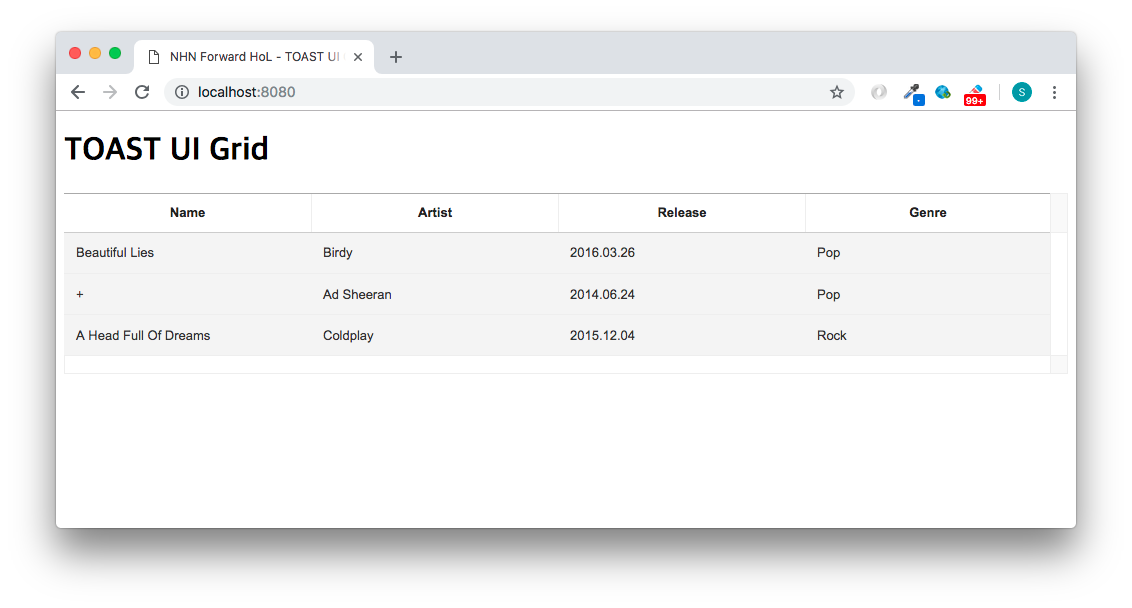
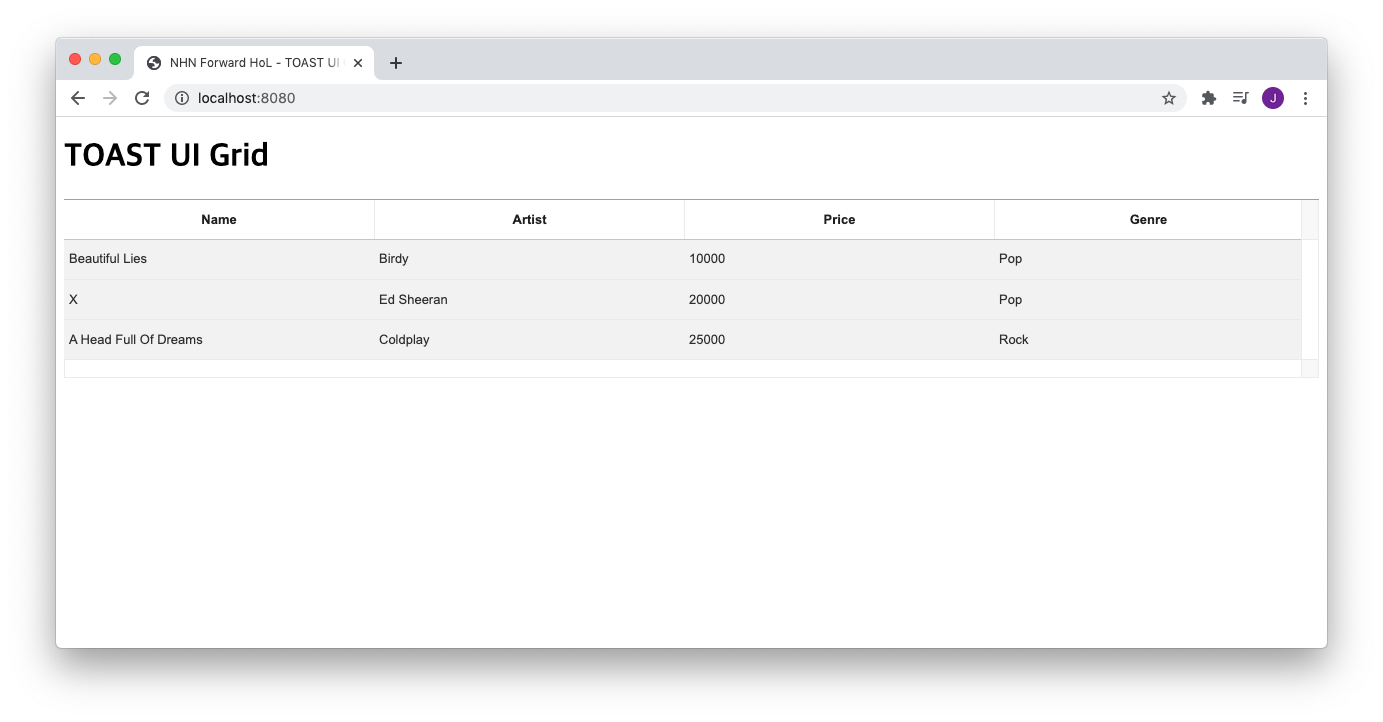
chore: apply review

diff --git a/searchindex.js b/searchindex.js
@@ -1,1 +1,1 @@
-Search.setIndex({docnames:["01","02","03","04","05","06","07","08","index","wrap-up"],envversion:{"sphinx.domains.c":1,"sphinx.domains.changeset":1,"sphinx.domains.cpp":1,"sphinx.domains.javascript":1,"sphinx.domains.math":2,"sphinx.domains.python":1,"sphinx.domains.rst":1,"sphinx.domains.std":1,sphinx:54},filenames:["01.rst","02.rst","03.rst","04.rst","05.rst","06.rst","07.rst","08.rst","index.rst","wrap-up.rst"],objects:{},objnames:{},objtypes:{},terms:{"15\ubd84":8,"3\uac1c\uc758":6,"\uac00\uacc4\ubd80":[0,7],"\uac00\uacc4\ubd80\ub97c":3,"\uac00\uacc4\ubd80\uc5d0":3,"\uac00\uacc4\ubd80\uc5d0\uc11c\ub294":4,"\uac00\uacc4\ubd80\uc758":3,"\uac00\uc7a5":4,"\uac00\uc838\uc624\ub294":[4,6],"\uac00\uc838\uc640":6,"\uac00\uc838\uc640\uc11c":7,"\uac00\uc9c0":[4,7],"\uac00\uc9c4":4,"\uac01":[4,5],"\uac04\ub2e8\ud55c":3,"\uac04\ub2e8\ud569\ub2c8\ub2e4":6,"\uac04\ub2e8\ud788":1,"\uac12":4,"\uac12\uc5d0":5,"\uac12\uc73c\ub85c":4,"\uac12\uc740":5,"\uac12\uc744":[3,4],"\uac12\uc758":4,"\uac19\uc2b5\ub2c8\ub2e4":4,"\uac19\uc740":4,"\uac19\uc774":[0,1,3,4,6,7],"\uac1c\ubc1c":[2,6],"\uac1c\ubc1c\uc790":6,"\uac1c\ubc1c\ud558\uae30":9,"\uac1c\ubc1c\ud55c":0,"\uac1c\uc694":8,"\uac1c\uc758":4,"\uac1d\uccb4":4,"\uac1d\uccb4\uc5d0":4,"\uac1d\uccb4\uc785\ub2c8\ub2e4":5,"\uac83\uacfc":[6,7],"\uac83\uc744":7,"\uacb0\uacfc\ub294":1,"\uacb0\uacfc\ub97c":[5,7],"\uacb0\uc815\ud558\ub294":5,"\uacb0\uc81c":[3,4],"\uacbd\uc6b0":[4,5,7],"\uacbd\ud5d8\ud574\ubcf4\uace0":0,"\uacfc":4,"\uacfc\uc815\uc744":6,"\uad00\ub9ac\ube44":4,"\uad50\ud1b5\ube44":4,"\uad6c\ud604\ud560":6,"\uad6c\ud604\ud574\ubd05\ub2c8\ub2e4":[6,7],"\uadf8\ub9ac\uace0":4,"\uadf8\ub9ac\ub4dc":[3,5,6,8],"\uadf8\ub9ac\ub4dc\uac00":2,"\uadf8\ub9ac\ub4dc\ub97c":[3,6],"\uadf8\ub9ac\ub4dc\uc5d0\uc11c":[4,6,7],"\uadf8\ub9ac\ub4dc\uc5d0\uc11c\ub294":[4,7],"\uadf8\ub9ac\ub4dc\uc758":[4,6],"\uae08\uc561":[3,4,5],"\uae30\ub2a5\ub4e4\uc744":3,"\uae30\ub2a5\ub9cc":4,"\uae30\ub2a5\uc744":4,"\uae30\ubcf8":[2,5,8],"\uae30\ubcf8\uac12\uc740":5,"\uae30\ubcf8\uc801\uc778":4,"\ub098\ud0c0\ub098\uc9c0":5,"\ub0a0\uc9dc":[3,4],"\ub0a0\uc9dc\ub97c":4,"\ub0a0\uc9dc\uc758":4,"\ub0b4\ubd80":4,"\ub0b4\ubd80\uc5d0":2,"\ub0b4\ubd80\uc5d0\uc11c\ub294":6,"\ub0b4\uc5d0\uc11c":[4,6],"\ub0b4\uc5ed":[3,4],"\ub0b4\uc6a9\uc744":5,"\ub0b4\uc7a5":4,"\ub118\uaca8\uc8fc\uc5b4\uc57c":2,"\ub124\ud2b8\uc6cc\ud06c":6,"\ub192\uc774\ub97c":5,"\ub294":6,"\ub2e4\ub974\uac8c":4,"\ub2e4\ub978":4,"\ub2e4\uc2dc":3,"\ub2e4\uc591\ud55c":[0,8],"\ub2e4\uc74c":[2,6,7],"\ub2e4\uc74c\uacfc":[4,6,7],"\ub2e8\uc704\ub97c":5,"\ub2f4\uc544":4,"\ub300\uc0c1":5,"\ub300\uc2dc\ubcf4\ub4dc":9,"\ub300\uc2e0":6,"\ub300\ud55c":[5,6],"\ub300\ud574":5,"\ub354":[2,5,6],"\ub370\uc774\ud130":[2,4,5,6],"\ub370\uc774\ud130\uac00":[4,7],"\ub370\uc774\ud130\uac12\uc774":7,"\ub370\uc774\ud130\ub294":4,"\ub370\uc774\ud130\ub97c":[0,3,4,6,7],"\ub370\uc774\ud130\ub9cc":6,"\ub370\uc774\ud130\uc5d0":6,"\ub370\uc774\ud130\uc758":5,"\ub3c4\uad6c":6,"\ub3c4\uc640\uc8fc\ub294":6,"\ub3cc\uc544\uc640":7,"\ub3d9\uae30\ud654":7,"\ub3d9\uc77c\ud558\uac8c":7,"\ub3d9\uc791":[6,7],"\ub3d9\uc791\uc740":7,"\ub3d9\uc791\uc744":[6,7],"\ub3d9\uc791\uc758":7,"\ub3d9\uc791\ud558\uc600\ub2e4\uba74":6,"\ub420":4,"\ub429\ub2c8\ub2e4":[4,6,7],"\ub450\uc5c8\uc2b5\ub2c8\ub2e4":1,"\ub4e4\uc5b4":4,"\ub4e4\uc5b4\uac00\ub294":4,"\ub4e4\uc5b4\uac08":3,"\ub4f1":5,"\ub54c":[3,4,5,7],"\ub54c\uc640":7,"\ub610\ud55c":4,"\ub744\uc6cc":4,"\ub77c\ub294":4,"\ub77c\uc774\ube0c\ub7ec\ub9ac\uc785\ub2c8\ub2e4":0,"\ub7a9\uc2a4\uc5d0\uc11c":0,"\ub808\ubca8":8,"\ub808\uc774\ube14\ub85c":4,"\ub808\uc774\uc544\uc6c3":8,"\ub808\uc774\uc544\uc6c3\uc5d0":5,"\ub808\uc774\uc544\uc6c3\uc744":3,"\ub808\uc774\uc5b4\ub97c":4,"\ub80c\ub354\ub9c1\ud560":5,"\ub85c":[3,4],"\ub85c\ub4dc\ud558\uba74":6,"\ub85c\uceec":6,"\ub85c\uceec\uc5d0\uc11c":6,"\ub97c":[1,6,7],"\ub9ac\uc2a4\ud2b8\uc758":4,"\ub9ac\ud504\ub808\uc2dc\ub429\ub2c8\ub2e4":2,"\ub9ac\ud504\ub808\uc2dc\ud558\uba74":7,"\ub9c1\ud06c":2,"\ub9c8\uc2a4\ud130\ud558\uc600\uc2b5\ub2c8\ub2e4":9,"\ub9cc\ub4e4\uae30":[0,9],"\ub9cc\ub4e4\uc5b4\ubcf4\uaca0\uc2b5\ub2c8\ub2e4":3,"\ub9cc\ub4e4\uc5b4\ubd05\ub2c8\ub2e4":3,"\ub9ce\uc740":2,"\ub9e4\ud551\uc744":4,"\uba3c\uc800":[3,6,7],"\uba54\uc2dc\uc9c0\uac00":6,"\uba85\ub839\uc5b4\ub97c":6,"\ubaa8\ub450":9,"\ubaa8\ub4c8\uc744":6,"\ubaa8\ub4c8\uc785\ub2c8\ub2e4":6,"\ubaa8\ub4dc":8,"\ubaa8\ub4dc\ub294":4,"\ubaa8\ub4dc\ub97c":4,"\ubaa8\ub4e0":1,"\ubaa9\ub85d\uc744":4,"\ubb38\uc790\uc5f4\uc740":5,"\ubb38\uc790\uc5f4\uc744":5,"\ubb38\ud654":4,"\ubbf8\ub9ac":1,"\ubc0f":[6,8],"\ubc14\uc778\ub529\ud558\uace0":7,"\ubc14\ud0d5\uc73c\ub85c":3,"\ubc15\uc2a4\uc758":4,"\ubc18\ub4dc\uc2dc":[2,4],"\ubc18\ud658\ud558\uba70":5,"\ubc1b\uc2b5\ub2c8\ub2e4":1,"\ubc1c\uc0dd":7,"\ubc29\ubc95\uc740":6,"\ubc29\ubc95\uc744":9,"\ubc29\uc2dd":[3,4],"\ubc30\uc5f4\uc5d0":4,"\ubc30\uc5f4\uc5d0\uc11c":3,"\ubc84\ud2bc\uc5d0":7,"\ubc84\ud2bc\uc744":7,"\ubc88\ub4e4\ub7ec\ub294":1,"\ubcc0\uacbd":[3,4,6],"\ubcc0\uacbd\ub41c":7,"\ubcc0\uacbd\ud558\uace0":5,"\ubcc0\uacbd\ud558\uae30":8,"\ubcc0\uacbd\ud558\uba74":6,"\ubcc0\uacbd\ud55c":7,"\ubcc0\uacbd\ud560":5,"\ubcc0\uacbd\ud569\ub2c8\ub2e4":[3,6],"\ubcc0\uacbd\ud574\ubcf4\uaca0\uc2b5\ub2c8\ub2e4":4,"\ubcc0\uacbd\ud574\ubd05\ub2c8\ub2e4":4,"\ubcc0\uacbd\ud574\uc57c":4,"\ubcc0\uc218\uc5d0":3,"\ubcf4\uae30":2,"\ubcf4\uc138\uc694":0,"\ubcf4\uc558\uc2b5\ub2c8\ub2e4":6,"\ubd80\uac00":5,"\ube0c\ub77c\uc6b0\uc800":0,"\ube0c\ub77c\uc6b0\uc800\ub294":2,"\ube0c\ub77c\uc6b0\uc800\ub85c":1,"\ube0c\ub77c\uc6b0\uc800\ub97c":7,"\ube0c\ub77c\uc6b0\uc800\uc5d0\uc11c":2,"\ube44\uace0":[3,4],"\ube44\uc6a9":8,"\ube48":3,"\uc0ac\uc6a9\ub41c":3,"\uc0ac\uc6a9\ub429\ub2c8\ub2e4":5,"\uc0ac\uc6a9\ud558\uace0":[1,4],"\uc0ac\uc6a9\ud558\ub294":[4,9],"\uc0ac\uc6a9\ud558\ub3c4\ub85d":6,"\uc0ac\uc6a9\ud558\uba74":0,"\uc0ac\uc6a9\ud558\uba74\uc11c":4,"\uc0ac\uc6a9\ud558\ubbc0\ub85c":6,"\uc0ac\uc6a9\ud558\uc5ec":[1,4,7],"\uc0ac\uc6a9\ud55c":0,"\uc0ac\uc6a9\ud560":7,"\uc0ac\uc6a9\ud569\ub2c8\ub2e4":[4,6],"\uc0ac\uc6a9\ud574":[4,6,9],"\uc0ac\uc6a9\ud574\ubcf4\uc558\uc2b5\ub2c8\ub2e4":4,"\uc0ac\ud56d\uc774":4,"\uc0ad\uc81c":7,"\uc0b4\ud3b4\ubcf4\uc558\ub358":3,"\uc0c1\ub2e8\uc5d0\uc11c":4,"\uc0c1\ud0dc\ub294":6,"\uc0c8\ub85c":6,"\uc0dd\uc131":[2,3],"\uc0dd\uc131\ub418\ub294":2,"\uc0dd\uc131\ub418\uc5c8\ub294\uc9c0":2,"\uc0dd\uc131\ub429\ub2c8\ub2e4":6,"\uc0dd\uc131\ud558\uace0":[6,9],"\uc0dd\uc131\ud558\uae30":8,"\uc0dd\uc131\ud558\ub294":2,"\uc0dd\uc131\ud560":3,"\uc0dd\uc131\ud569\ub2c8\ub2e4":3,"\uc0dd\uc131\ud574\ubd05\ub2c8\ub2e4":[2,3],"\uc0dd\ud65c\ube44":4,"\uc11c\ubc84":8,"\uc11c\ubc84\uac00":6,"\uc11c\ubc84\ub294":6,"\uc11c\ubc84\ub97c":[1,6],"\uc11c\ubc84\uc5d0":2,"\uc11c\ubc84\uc5d0\uc11c":[1,7],"\uc11c\ubc84\uc640":[6,9],"\uc11c\ubc84\uce21":6,"\uc11c\ube44\uc2a4\uc5d0":0,"\uc11c\uc2dd":8,"\uc120\ud0dd":4,"\uc120\ud0dd\ub418\uc5c8\uc744":4,"\uc120\ud0dd\ud558\ub824\uace0":4,"\uc120\ud0dd\ud558\ub824\ub294":4,"\uc120\ud0dd\ud560":4,"\uc124\uc815":[2,4],"\uc124\uc815\ub41c":[4,5,6,7],"\uc124\uc815\uc744":[5,6],"\uc124\uc815\ud558\uc5ec":[4,7],"\uc124\uc815\ud55c":[5,6,7],"\uc124\uc815\ud560":6,"\uc124\uc815\ud569\ub2c8\ub2e4":[4,5,6,7],"\uc124\uc815\ud574":1,"\uc124\uc815\ud574\uc57c\ud569\ub2c8\ub2e4":4,"\uc124\uce58":8,"\uc124\uce58\ud569\ub2c8\ub2e4":1,"\uc138":7,"\uc140":4,"\uc140\uc774":7,"\uc18d\uc131\uc5d0":4,"\uc18d\uc131\uc744":[4,5],"\uc18d\uc131\uc774":4,"\uc218":[0,4,5,6,7],"\uc218\ub3c4":6,"\uc218\uc815":7,"\uc218\uc815\ub418\uc5c8\uc744":7,"\uc218\uc815\ub41c":7,"\uc218\uc815\ud558\ub294":7,"\uc218\uc815\ud558\uba74":2,"\uc218\uc815\ud55c":7,"\uc218\uc815\ud560":4,"\uc21c\uc11c\ub300\ub85c":4,"\uc2a4\ud0c0\uc77c":4,"\uc2a4\ud0c0\uc77c\uc744":4,"\uc2dc":7,"\uc2dc\uac04":8,"\uc2dc\uac04\ud45c":9,"\uc2dd\ube44":[3,4],"\uc2e4\uc2b5\ud558\ub294":1,"\uc2e4\uc81c":6,"\uc2e4\ud589\ub418\uace0":6,"\uc2e4\ud589\ud558\uace0":1,"\uc2e4\ud589\ud558\uae30":8,"\uc2e4\ud589\ud569\ub2c8\ub2e4":6,"\uc2e4\ud589\ud574\ubd05\ub2c8\ub2e4":6,"\uc2e4\ud589\ud588\ub358":6,"\uc2ec\ud654":8,"\uc2f6\ub2e4\uba74":[4,5],"\uc368\uba38\ub9ac":5,"\uc544\ub798":4,"\uc544\ub798\uc5d0":[2,5],"\uc544\ub798\uc640":[1,3,6],"\uc544\uc8fc":6,"\uc548\ud568":4,"\uc54a\uc2b5\ub2c8\ub2e4":5,"\uc54a\uc740":5,"\uc54c\uace0":5,"\uc55e\uc11c":7,"\uc55e\uc5d0\uc11c":3,"\uc55e\uc73c\ub85c":[1,3],"\uc561\uc140\uacfc":0,"\uc5b4\ub5a4":7,"\uc5c5\ub370\uc774\ud2b8\ud569\ub2c8\ub2e4":7,"\uc5d0":[1,4,7],"\uc5d0\ub514\ud130\ub97c":4,"\uc5d8\ub9ac\uba3c\ud2b8":2,"\uc5ec\uae30\uc11c":4,"\uc5ec\ub7ec":4,"\uc5f0\ub3d9":6,"\uc5f0\ub3d9\uc744":6,"\uc5f0\ub3d9\ud558\uae30":8,"\uc5f0\ub3d9\ud558\uc5ec":6,"\uc5f0\uc0b0":5,"\uc5f4\uace0":[2,6],"\uc5f4\uc5b4":[1,2],"\uc601\uc5ed\uc740":5,"\uc601\uc5ed\uc758":5,"\uc608\ub97c":4,"\uc608\uc81c\uc5d0\uc11c\ub294":7,"\uc624\ud508\uc18c\uc2a4":0,"\uc628":7,"\uc635\uc158":[2,6],"\uc635\uc158\ub4e4\uc744":6,"\uc635\uc158\uc5d0":[5,6,7],"\uc635\uc158\uc73c\ub85c":6,"\uc635\uc158\uc744":[2,4,5],"\uc635\uc158\uc758":3,"\uc635\uc158\uc785\ub2c8\ub2e4":5,"\uc640":5,"\uc644\uc131\ud574\ubd05\ub2c8\ub2e4":7,"\uc678":4,"\uc678\ubd80":6,"\uc694\uccad\uacfc":6,"\uc694\uccad\uc774":6,"\uc6d0":5,"\uc704\uc5d0\uc11c":7,"\uc704\uce58\ub97c":5,"\uc704\uce58\uc5d0\uc11c":6,"\uc704\uce58\ud569\ub2c8\ub2e4":5,"\uc704\ud574":[4,6,7],"\uc704\ud574\uc11c\ub294":4,"\uc720\ud29c\ube0c":9,"\uc73c\ub85c":[1,5,6],"\uc744":[1,4,5,6,7],"\uc751\ub2f5\uc774":6,"\uc758":4,"\uc774":[1,4,5,6,7],"\uc774\ub3d9\ud55c":1,"\uc774\ub54c":[2,4],"\uc774\ub984":5,"\uc774\ubc88":[0,7],"\uc774\ubca4\ud2b8":7,"\uc774\ubca4\ud2b8\ub97c":7,"\uc774\uc6a9\ud574":[3,9],"\uc774\uc804\uc5d0":3,"\uc774\uc81c":6,"\uc774\ud574\ud588\uc2b5\ub2c8\ub2e4":9,"\uc774\ud6c4\uc5d0":7,"\uc775\uc219\ud55c":0,"\uc775\uc2a4\ud150\uc158":9,"\uc778\uc2a4\ud134\uc2a4":2,"\uc778\uc2a4\ud134\uc2a4\ub97c":[2,3],"\uc778\ud48b\uacfc\ub294":4,"\uc778\ud48b\uc744":4,"\uc778\ud48b\uc774":4,"\uc77c\ubc18\uc801\uc73c\ub85c":4,"\uc77c\uc5b4\ub09c":6,"\uc77c\uce58\ud574\uc57c":4,"\uc77d\uae30":7,"\uc77d\uc5b4\uc624\ub294":6,"\uc77d\uc5b4\uc62c":7,"\uc785\ub2c8\ub2e4":4,"\uc788\ub294":[4,5,7],"\uc788\ub3c4\ub85d":[4,5,6,7],"\uc788\uc2b5\ub2c8\ub2e4":[0,4,5,6,7],"\uc788\uc5b4\uc57c":4,"\uc788\uc9c0\ub9cc":6,"\uc790\ub3d9\uc73c\ub85c":2,"\uc790\ubc14\uc2a4\ud06c\ub9bd\ud2b8":0,"\uc790\uc138\ud788":5,"\uc791\uc131\ud55c":[3,7],"\uc791\uc131\ud569\ub2c8\ub2e4":3,"\uc791\uc131\ud574":2,"\uc791\uc5c5\uc744":6,"\uc798":6,"\uc7a5\uc5d0\uc11c\ub294":7,"\uc801\uc6a9":4,"\uc801\uc6a9\ud574":0,"\uc801\uc6a9\ud574\ubcf4\uaca0\uc2b5\ub2c8\ub2e4":4,"\uc804\uccb4":5,"\uc810\uc740":4,"\uc810\uc785\ub2c8\ub2e4":4,"\uc811\uc18d\ud55c":2,"\uc811\uc18d\ud569\ub2c8\ub2e4":1,"\uc815\ub9ac":8,"\uc815\ubcf4":[2,6],"\uc815\ubcf4\uac00":5,"\uc815\ubcf4\ub4e4\uc744":5,"\uc815\ubcf4\ub97c":[3,5,7],"\uc815\ubcf4\uc5d0":4,"\uc815\uc0c1\uc801\uc73c\ub85c":6,"\uc81c\uac70":6,"\uc81c\uacf5\ub429\ub2c8\ub2e4":1,"\uc81c\uacf5\ud558\ub294":[4,6],"\uc81c\uacf5\ud569\ub2c8\ub2e4":4,"\uc81c\uc678\ud55c":4,"\uc880":6,"\uc885\ub8cc\ub97c":7,"\uc8fc\uc758\ud560":4,"\uc900\ube44\ub41c":[1,2],"\uc90d\ub2c8\ub2e4":2,"\uc911":4,"\uc911\uc5d0\uc11c":4,"\uc911\uc694\ud55c":4,"\uc911\uc778":7,"\uc9c0\uae08\uae4c\uc9c0":6,"\uc9c0\uae08\uae4c\uc9c0\ub294":4,"\uc9c0\uae08\ubd80\ud130":3,"\uc9c0\uae08\ubd80\ud130\ub294":6,"\uc9c0\uc6b0\uace0":3,"\uc9c0\uc815":2,"\uc9c0\uc815\ud558\uba70":5,"\uc9c0\uc815\ud558\uc9c0":5,"\uc9c0\uc815\ud560":4,"\uc9c0\ucd9c":8,"\uc9c1\uc811":[0,6],"\ucc28\ud2b8":9,"\ucc38\uace0":6,"\ucc38\uace0\ud558\uc5ec":4,"\ucc38\uace0\ud574\uc8fc\uc138\uc694":5,"\ucc98\ub9ac\ub429\ub2c8\ub2e4":6,"\ucc98\ub9ac\ud558\uae30":6,"\ucc98\ub9ac\ud560":[6,7],"\ucc98\ub9ac\ud574\ubcf4\uaca0\uc2b5\ub2c8\ub2e4":6,"\ucc98\ub9ac\ud574\ubd05\ub2c8\ub2e4":7,"\ucc98\ub9ac\ud588\ub358":7,"\uccb4\ud06c\ubc15\uc2a4\ub97c":4,"\uccb4\ud06c\ubc15\uc2a4\uc758":4,"\uccb4\ud06c\ubc15\uc2a4\ucc98\ub7fc":4,"\ucd08\uae09":8,"\ucd08\uae30\uc5d0":5,"\ucd08\uae30\ud654\ud558\ub358":6,"\ucd08\uae30\ud654\ud569\ub2c8\ub2e4":4,"\ucd1d\ud569":5,"\ucd5c\ub313\uac12":5,"\ucd5c\uc19f\uac12":5,"\ucd94\uac00":[4,5,7],"\ucd94\uac00\ub420":3,"\ucd94\uac00\ud558\uac70\ub098":5,"\ucd94\uac00\ud558\uace0":4,"\ucd94\uac00\ud569\ub2c8\ub2e4":7,"\ucd94\uac00\ud574":3,"\ucd94\uac00\ud574\ubd05\ub2c8\ub2e4":[2,4,5,7],"\ucd94\uac00\ud574\uc57c":4,"\ucd94\uac00\ud574\uc90d\ub2c8\ub2e4":4,"\ucd95\ud558\ud569\ub2c8\ub2e4":9,"\ucd9c\ub825":5,"\ucd9c\ub825\ub418\ub294":7,"\ucd9c\ub825\ub418\uba70":5,"\ucd9c\ub825\ub418\uba74":6,"\ucd9c\ub825\ud558\ub294":4,"\ucd9c\ub825\ud560":[5,7],"\ucd9c\ub825\ud574\uc904":5,"\uce74\ub4dc":4,"\uce74\ud14c\uace0\ub9ac":[4,8],"\uce74\ud14c\uace0\ub9ac\ubcc4\ub85c":4,"\uce74\ud14c\uace0\ub9ac\uc5d0\uc11c":4,"\ucee4\uc2a4\ud140":7,"\ucee8\ud14c\uc774\ub108":2,"\uceec\ub7fc":[2,4,5],"\uceec\ub7fc\uc758":[4,5],"\ucef4\ud3ec\ub10c\ud2b8\ub97c":4,"\ucf54\ub4dc":4,"\ucf54\ub4dc\ub294":3,"\ucf54\ub4dc\ub97c":[2,3,6],"\ud06c\ub86c":0,"\ud074\ub860":1,"\ud074\ub9ad":7,"\ud074\ub9ad\ud558\uba74":7,"\ud074\ub9ad\ud574":7,"\ud0a4\ub294":5,"\ud0c0\uc785\uc73c\ub85c":4,"\ud0c0\uc785\uc740":4,"\ud0c0\uc785\uc758":4,"\ud0dc\uadf8":[2,5],"\ud0dc\uadf8\ub97c":[2,7],"\ud0ed\uc5d0\uc11c":6,"\ud130\ubbf8\ub110\uc744":[1,6],"\ud14c\uc774\ube14":5,"\ud14c\uc774\ube14\uc5d0\uc11c":5,"\ud14d\uc2a4\ud2b8\ub85c":4,"\ud1b5\uc2e0\ud558\ub294":9,"\ud1b5\ud574":[5,6],"\ud29c\ud1a0\ub9ac\uc5bc":[4,5,6],"\ud30c\ub77c\ubbf8\ud130\ub85c":2,"\ud30c\uc77c":4,"\ud30c\uc77c\ub85c":7,"\ud30c\uc77c\uc5d0":[3,7],"\ud30c\uc77c\uc744":2,"\ud328\ud0a4\uc9c0\uc640":1,"\ud398\uc774\uc9c0\ub97c":6,"\ud398\uc774\ucf54":[3,4],"\ud3b8\uc758\uc810":[3,4],"\ud3b8\uc9d1":[7,8],"\ud3b8\uc9d1\uae30":0,"\ud3b8\uc9d1\ud560":0,"\ud3b8\ud558\uac8c":6,"\ud3c9\uade0":5,"\ud3ec\ub9e4\ud130":4,"\ud3ec\ub9f7\uc744":4,"\ud3ec\ud568\ud558\ub294":5,"\ud3f4\ub354":6,"\ud3f4\ub354\ub85c":1,"\ud3f4\ub354\uc758":3,"\ud45c\ud604\ud558\uace0":0,"\ud504\ub85c\uc81d\ud2b8":[3,6],"\ud504\ub85c\uc81d\ud2b8\ub97c":1,"\ud53c\ucee4\uc758":4,"\ud544\uc694\ub85c":4,"\ud558\ub098\uc640":4,"\ud558\ub294":4,"\ud558\ub2e8\uc5d0":5,"\ud558\uba74":4,"\ud558\ubbc0\ub85c":4,"\ud55c":4,"\ud560":4,"\ud568\uc218\ub294":5,"\ud568\uc218\ub97c":[5,7],"\ud568\uc218\ud615":5,"\ud569\uacc4":5,"\ud569\ub2c8\ub2e4":[2,4],"\ud574\ub2f9":[5,6],"\ud574\ub2f9\ud558\ub294":4,"\ud578\ub4e4\ub7ec":7,"\ud578\uc988\uc628":0,"\ud589":7,"\ud589\uc5d0":5,"\ud589\uc758":[5,6],"\ud5e4\ub354":5,"\ud5e4\ub354\ub97c":6,"\ud604\uae08":4,"\ud615\uc2dd\uc744":[4,5],"\ud615\ud0dc\ub85c":[0,4],"\ud638\ucd9c\ub418\ub294":7,"\ud638\ucd9c\ub429\ub2c8\ub2e4":6,"\ud638\ucd9c\ud558\uac8c":7,"\ud638\ucd9c\ud558\ub294":[2,7],"\ud638\ucd9c\ud558\uba74":7,"\ud638\ucd9c\ud558\uc5ec":6,"\ud638\ucd9c\ud560":[6,7],"\ud638\ucd9c\ud569\ub2c8\ub2e4":[6,7],"\ud638\ucd9c\ud574":6,"\ud654\uba74\uc5d0":5,"\ud655\uc778\ud560":[6,7],"\ud655\uc778\ud569\ub2c8\ub2e4":[1,2],"\ud65c\uc131\ud654\ud558\uace0":6,"\ud65c\uc131\ud654\ud558\uae30":8,"\ud65c\uc131\ud654\ud558\ub294":6,"\ud65c\uc131\ud654\ud558\uba70":6,"\ud65c\uc131\ud654\ud574\ubd05\ub2c8\ub2e4":4,"\ud68c\uc0ac":[3,4],"\ud6c4":[1,7],"api\ub85c":7,"api\ub97c":[2,6,7],"api\uc758":6,"calendar\ub85c":9,"chart\ub97c":9,"const":[2,3,4,5,6,7],"datasource\ub85c":6,"datasource\ub97c":[6,7,9],"datasource\uc758":7,"fe\uac1c\ubc1c\ub7a9\uc5d0\uc11c":0,"function":7,"grid\ub294":[0,1],"grid\ub97c":[0,1,9],"import":[2,3,4],"method\ub97c":6,"new":[2,3,5,6],"return":5,"url\uacfc":6,"url\uc740":6,"url\uc744":7,Lies:2,account:[1,6],addeventlisten:7,amount:[3,4,5],api:2,appendrow:2,applic:[6,7],artist:2,beauti:2,birdi:2,bodi:2,book:[1,6],bottom:5,button:7,category1:[3,4],category2:[3,4],checkbox:4,checkedonli:7,click:7,clone:1,coldplai:2,column:[2,3],columncont:5,columndata:[3,4,5],columnnam:7,com:1,consol:7,content:6,contenttyp:[6,7],creat:7,crud:6,css:[2,3,4],data:[2,3,5,6,7],datasourc:7,date:[3,4],datepick:4,delet:7,dev:1,dist:[2,3,4],div:2,document:[2,3,7],dream:2,editor:[4,5,9],express:6,fals:7,finishedit:7,foreach:2,format:4,formatt:4,from:[2,3],full:2,genr:2,get:[6,7],getelementbyid:[2,3,7],getfocusedcel:7,git:1,github:[0,1],grid:[2,3,5,6,7,8],hand:[1,6],head:2,header:[2,3,4,5],height:5,html:[5,7],http:[1,6,7],index:[2,3,7],instal:1,javascript:8,json:[6,7],lab:[1,6],listitem:4,listitemtext:4,localhost:[1,6,7],log:7,method:[6,7],name:[2,3,4,5],nhn:1,node:0,npm:[1,6],option:[2,4],pars:7,payment:[3,4],picker:4,pop:2,posit:5,put:7,read:6,readdata:[6,7],releas:2,request:7,respons:7,responseobj:7,result:7,rock:2,row:2,rowdata:[2,3,4,5,6],rowkei:7,run:[1,6],select:4,serv:1,server:1,sheeran:2,src:[2,3,7],sum:5,sync:7,syncserv:7,templat:5,text:[4,5],toast:[0,4,9],toastui:[1,6],top:5,tui:[1,2,3,4],type:[4,6],updat:7,updatedata:7,url:[6,7],valu:[4,5],valuemap:5,webpack:1,xhr:7,yyyi:4},titles:["1. \uac1c\uc694","2. TOAST UI Grid \uc124\uce58 \ubc0f \uc11c\ubc84 \uc2e4\ud589\ud558\uae30","3. \uadf8\ub9ac\ub4dc \uc0dd\uc131\ud558\uae30","4. \uac00\uacc4\ubd80 \ub808\uc774\uc544\uc6c3 \ub9cc\ub4e4\uae30","5. \ub2e4\uc591\ud55c \ud3b8\uc9d1 \ubaa8\ub4dc \ud65c\uc131\ud654\ud558\uae30","6. \uc9c0\ucd9c \ube44\uc6a9 \uc11c\uc2dd \ubcc0\uacbd\ud558\uae30","7. \uc11c\ubc84 \uc5f0\ub3d9\ud558\uae30 (\uae30\ubcf8)","8. \uc11c\ubc84 \uc5f0\ub3d9\ud558\uae30 (\uc2ec\ud654)","TOAST UI Grid\ub85c \uac00\uacc4\ubd80 \ub9cc\ub4e4\uae30","9. \uc815\ub9ac"],titleterms:{"\uac00\uacc4\ubd80":[3,8],"\uac1c\ubc1c":1,"\uac1c\uc694":0,"\uacb0\uacfc":[2,3,4,5,6,7],"\uadf8\ub9ac\ub4dc":2,"\uae30\ubcf8":[3,6],"\ub0b4\uc6a9":[0,9],"\ub2e4\uc591\ud55c":4,"\ub2e4\uc74c":9,"\ub2e8\uacc4":9,"\ub370\uc774\ud130":3,"\ub370\uc774\ud2b8":4,"\ub808\uc774\uc544\uc6c3":3,"\ub9cc\ub4e4\uae30":[3,8],"\ubaa8\ub4dc":4,"\ubc0f":1,"\ubc15\uc2a4":4,"\ubc84\ud2bc":7,"\ubcc0\uacbd\ud558\uae30":5,"\ube44\uc6a9":5,"\uc0ac\uc6a9\ud558\uae30":[4,6],"\uc0dd\uc131\ud558\uae30":2,"\uc11c\ubc84":[1,6,7],"\uc11c\uc2dd":5,"\uc124\uc815\ud558\uae30":[3,5,6],"\uc124\uce58":1,"\uc140\ub809\ud2b8":4,"\uc18c\uc2a4":0,"\uc2e4\ud589":1,"\uc2e4\ud589\ud558\uae30":1,"\uc2ec\ud654":7,"\uc5d0\ub514\ud130":4,"\uc5f0\ub3d9\ud558\uae30":[6,7],"\uc635\uc158":[4,5],"\uc694\uccad":6,"\uc694\uccad\ud558\uae30":7,"\uc751\ub2f5":[6,7],"\uc778\ud48b":4,"\uc790\ubc14\uc2a4\ud06c\ub9bd\ud2b8":2,"\uc791\uc131":2,"\uc815\ub9ac":9,"\uc900\ube44\ubb3c":0,"\uc9c0\ucd9c":5,"\ucc98\ub9ac\ud558\uae30":7,"\uccb4\ud06c\ubc15\uc2a4":4,"\ucd08\uae30":2,"\ucd94\uac00\ud558\uae30":7,"\uceec\ub7fc":3,"\ucf54\ub4dc":[0,2],"\ud14c\uc2a4\ud2b8\uc6a9":6,"\ud14d\uc2a4\ud2b8":4,"\ud3b8\uc9d1":4,"\ud504\ub85c\uc81d\ud2b8":1,"\ud53c\ucee4":4,"\ud559\uc2b5\ud55c":9,"\ud559\uc2b5\ud560":0,"\ud654\uba74":[2,3,4,5,6,7],"\ud655\uc778\ud558\uae30":6,"\ud65c\uc131\ud654\ud558\uae30":4,"grid\ub85c":8,api:[6,7],datasourc:6,formatt:5,grid:1,html:2,summari:5,toast:[1,8],udat:7}})
+Search.setIndex({docnames:["01","02","03","04","05","06","07","08","index","wrap-up"],envversion:{"sphinx.domains.c":1,"sphinx.domains.changeset":1,"sphinx.domains.cpp":1,"sphinx.domains.javascript":1,"sphinx.domains.math":2,"sphinx.domains.python":1,"sphinx.domains.rst":1,"sphinx.domains.std":1,sphinx:54},filenames:["01.rst","02.rst","03.rst","04.rst","05.rst","06.rst","07.rst","08.rst","index.rst","wrap-up.rst"],objects:{},objnames:{},objtypes:{},terms:{"15\ubd84":8,"3\uac1c\uc758":6,"\uac00\uacc4\ubd80":[0,7],"\uac00\uacc4\ubd80\ub97c":3,"\uac00\uacc4\ubd80\uc5d0":3,"\uac00\uacc4\ubd80\uc5d0\uc11c\ub294":4,"\uac00\uacc4\ubd80\uc758":3,"\uac00\uc7a5":4,"\uac00\uc838\uc624\ub294":[4,6],"\uac00\uc838\uc640":6,"\uac00\uc838\uc640\uc11c":7,"\uac00\uc9c0":[4,7],"\uac00\uc9c4":4,"\uac01":[4,5],"\uac04\ub2e8\ud55c":3,"\uac04\ub2e8\ud569\ub2c8\ub2e4":6,"\uac04\ub2e8\ud788":1,"\uac12":4,"\uac12\uc5d0":5,"\uac12\uc73c\ub85c":4,"\uac12\uc740":5,"\uac12\uc744":[3,4],"\uac12\uc758":4,"\uac19\uc2b5\ub2c8\ub2e4":4,"\uac19\uc740":4,"\uac19\uc774":[0,1,3,4,6,7],"\uac1c\ubc1c":[2,6],"\uac1c\ubc1c\uc790":6,"\uac1c\ubc1c\ud558\uae30":9,"\uac1c\ubc1c\ud55c":0,"\uac1c\uc694":8,"\uac1c\uc758":4,"\uac1d\uccb4":4,"\uac1d\uccb4\uc5d0":4,"\uac1d\uccb4\uc785\ub2c8\ub2e4":5,"\uac83\uacfc":[6,7],"\uac83\uc744":7,"\uacb0\uacfc\ub294":1,"\uacb0\uacfc\ub97c":[5,7],"\uacb0\uc815\ud558\ub294":5,"\uacb0\uc81c":[3,4],"\uacbd\uc6b0":[4,5,7],"\uacbd\ud5d8\ud574\ubcf4\uace0":0,"\uacfc":4,"\uacfc\uc815\uc744":6,"\uad00\ub9ac\ube44":4,"\uad50\ud1b5\ube44":4,"\uad6c\ud604\ud560":6,"\uad6c\ud604\ud574\ubd05\ub2c8\ub2e4":[6,7],"\uadf8\ub9ac\uace0":4,"\uadf8\ub9ac\ub4dc":[3,5,6,8],"\uadf8\ub9ac\ub4dc\uac00":2,"\uadf8\ub9ac\ub4dc\ub97c":[3,6],"\uadf8\ub9ac\ub4dc\uc5d0\uc11c":[4,6,7],"\uadf8\ub9ac\ub4dc\uc5d0\uc11c\ub294":[4,7],"\uadf8\ub9ac\ub4dc\uc758":[4,6],"\uae08\uc561":[3,4,5],"\uae30\ub2a5\ub4e4\uc744":3,"\uae30\ub2a5\ub9cc":4,"\uae30\ub2a5\uc744":4,"\uae30\ubcf8":[2,5,8],"\uae30\ubcf8\uac12\uc740":5,"\uae30\ubcf8\uc801\uc778":4,"\ub098\ud0c0\ub098\uc9c0":5,"\ub0a0\uc9dc":[3,4],"\ub0a0\uc9dc\ub97c":4,"\ub0a0\uc9dc\uc758":4,"\ub0b4\ubd80":4,"\ub0b4\ubd80\uc5d0":2,"\ub0b4\ubd80\uc5d0\uc11c\ub294":6,"\ub0b4\uc5d0\uc11c":[4,6],"\ub0b4\uc5ed":[3,4],"\ub0b4\uc6a9\uc744":5,"\ub0b4\uc7a5":4,"\ub118\uaca8\uc8fc\uc5b4\uc57c":2,"\ub124\ud2b8\uc6cc\ud06c":6,"\ub192\uc774\ub97c":5,"\ub294":6,"\ub2e4\ub974\uac8c":4,"\ub2e4\ub978":4,"\ub2e4\uc2dc":3,"\ub2e4\uc591\ud55c":[0,8],"\ub2e4\uc74c":[2,6,7],"\ub2e4\uc74c\uacfc":[4,6,7],"\ub2e8\uc704\ub97c":5,"\ub2f4\uc544":4,"\ub300\uc0c1":5,"\ub300\uc2dc\ubcf4\ub4dc":9,"\ub300\uc2e0":6,"\ub300\ud55c":[5,6],"\ub300\ud574":5,"\ub354":[2,5,6],"\ub370\uc774\ud130":[2,4,5,6],"\ub370\uc774\ud130\uac00":[4,7],"\ub370\uc774\ud130\uac12\uc774":7,"\ub370\uc774\ud130\ub294":4,"\ub370\uc774\ud130\ub97c":[0,3,4,6,7],"\ub370\uc774\ud130\ub9cc":6,"\ub370\uc774\ud130\uc5d0":6,"\ub370\uc774\ud130\uc758":5,"\ub3c4\uad6c":6,"\ub3c4\uc640\uc8fc\ub294":6,"\ub3cc\uc544\uc640":7,"\ub3d9\uae30\ud654":7,"\ub3d9\uc77c\ud558\uac8c":7,"\ub3d9\uc791":[6,7],"\ub3d9\uc791\uc740":7,"\ub3d9\uc791\uc744":[6,7],"\ub3d9\uc791\uc758":7,"\ub3d9\uc791\ud558\uc600\ub2e4\uba74":6,"\ub420":4,"\ub429\ub2c8\ub2e4":[4,6,7],"\ub450\uc5c8\uc2b5\ub2c8\ub2e4":1,"\ub4e4\uc5b4":4,"\ub4e4\uc5b4\uac00\ub294":4,"\ub4e4\uc5b4\uac08":3,"\ub4f1":5,"\ub54c":[3,4,5,7],"\ub54c\uc640":7,"\ub610\ud55c":4,"\ub744\uc6cc":4,"\ub77c\ub294":4,"\ub77c\uc774\ube0c\ub7ec\ub9ac\uc785\ub2c8\ub2e4":0,"\ub7a9\uc2a4\uc5d0\uc11c":0,"\ub808\ubca8":8,"\ub808\uc774\ube14\ub85c":4,"\ub808\uc774\uc544\uc6c3":8,"\ub808\uc774\uc544\uc6c3\uc5d0":5,"\ub808\uc774\uc544\uc6c3\uc744":3,"\ub808\uc774\uc5b4\ub97c":4,"\ub80c\ub354\ub9c1\ud560":5,"\ub85c":[3,4],"\ub85c\ub4dc\ud558\uba74":6,"\ub85c\uceec":6,"\ub85c\uceec\uc5d0\uc11c":6,"\ub97c":[1,6,7],"\ub9ac\uc2a4\ud2b8\uc758":4,"\ub9ac\ud504\ub808\uc2dc\ub429\ub2c8\ub2e4":2,"\ub9ac\ud504\ub808\uc2dc\ud558\uba74":7,"\ub9c1\ud06c":2,"\ub9c8\uc2a4\ud130\ud558\uc600\uc2b5\ub2c8\ub2e4":9,"\ub9cc\ub4e4\uae30":[0,9],"\ub9cc\ub4e4\uc5b4\ubcf4\uaca0\uc2b5\ub2c8\ub2e4":3,"\ub9cc\ub4e4\uc5b4\ubd05\ub2c8\ub2e4":3,"\ub9ce\uc740":2,"\ub9e4\ud551\uc744":4,"\uba3c\uc800":[3,6,7],"\uba54\uc2dc\uc9c0\uac00":6,"\uba85\ub839\uc5b4\ub97c":6,"\ubaa8\ub450":9,"\ubaa8\ub4c8\uc744":6,"\ubaa8\ub4c8\uc785\ub2c8\ub2e4":6,"\ubaa8\ub4dc":8,"\ubaa8\ub4dc\ub294":4,"\ubaa8\ub4dc\ub97c":4,"\ubaa8\ub4e0":1,"\ubaa9\ub85d\uc744":4,"\ubb38\uc790\uc5f4\uc740":5,"\ubb38\uc790\uc5f4\uc744":5,"\ubb38\ud654":4,"\ubbf8\ub9ac":1,"\ubc0f":[6,8],"\ubc14\uc778\ub529\ud558\uace0":7,"\ubc14\ud0d5\uc73c\ub85c":3,"\ubc15\uc2a4\ub97c":4,"\ubc15\uc2a4\uc758":4,"\ubc15\uc2a4\ucc98\ub7fc":4,"\ubc18\ub4dc\uc2dc":[2,4],"\ubc18\ud658\ud558\uba70":5,"\ubc1b\uc2b5\ub2c8\ub2e4":1,"\ubc1c\uc0dd":7,"\ubc29\ubc95\uc740":6,"\ubc29\ubc95\uc744":9,"\ubc29\uc2dd":[3,4],"\ubc30\uc5f4\uc5d0":4,"\ubc30\uc5f4\uc5d0\uc11c":3,"\ubc84\ud2bc\uc5d0":7,"\ubc84\ud2bc\uc744":7,"\ubc88\ub4e4\ub7ec\ub294":1,"\ubcc0\uacbd":[3,4,6],"\ubcc0\uacbd\ub41c":7,"\ubcc0\uacbd\ud558\uace0":5,"\ubcc0\uacbd\ud558\uae30":8,"\ubcc0\uacbd\ud558\uba74":6,"\ubcc0\uacbd\ud55c":7,"\ubcc0\uacbd\ud560":5,"\ubcc0\uacbd\ud569\ub2c8\ub2e4":[3,6],"\ubcc0\uacbd\ud574\ubcf4\uaca0\uc2b5\ub2c8\ub2e4":4,"\ubcc0\uacbd\ud574\ubd05\ub2c8\ub2e4":4,"\ubcc0\uacbd\ud574\uc57c":4,"\ubcc0\uc218\uc5d0":3,"\ubcf4\uae30":2,"\ubcf4\uc138\uc694":0,"\ubcf4\uc558\uc2b5\ub2c8\ub2e4":6,"\ubd80\uac00":5,"\ube0c\ub77c\uc6b0\uc800":0,"\ube0c\ub77c\uc6b0\uc800\ub294":2,"\ube0c\ub77c\uc6b0\uc800\ub85c":1,"\ube0c\ub77c\uc6b0\uc800\ub97c":7,"\ube0c\ub77c\uc6b0\uc800\uc5d0\uc11c":2,"\ube44\uace0":[3,4],"\ube44\uc6a9":8,"\ube48":3,"\uc0ac\uc6a9\ub41c":3,"\uc0ac\uc6a9\ub429\ub2c8\ub2e4":5,"\uc0ac\uc6a9\ud558\uace0":[1,4],"\uc0ac\uc6a9\ud558\ub294":[4,9],"\uc0ac\uc6a9\ud558\ub3c4\ub85d":6,"\uc0ac\uc6a9\ud558\uba74":0,"\uc0ac\uc6a9\ud558\uba74\uc11c":4,"\uc0ac\uc6a9\ud558\ubbc0\ub85c":6,"\uc0ac\uc6a9\ud558\uc5ec":[1,4,7],"\uc0ac\uc6a9\ud55c":0,"\uc0ac\uc6a9\ud560":7,"\uc0ac\uc6a9\ud569\ub2c8\ub2e4":[4,6],"\uc0ac\uc6a9\ud574":[4,6,9],"\uc0ac\uc6a9\ud574\ubcf4\uc558\uc2b5\ub2c8\ub2e4":4,"\uc0ac\ud56d\uc774":4,"\uc0ad\uc81c":7,"\uc0b4\ud3b4\ubcf4\uc558\ub358":3,"\uc0c1\ub2e8\uc5d0\uc11c":4,"\uc0c1\ud0dc\ub294":6,"\uc0c8\ub85c":6,"\uc0dd\uc131":[2,3],"\uc0dd\uc131\ub418\ub294":2,"\uc0dd\uc131\ub418\uc5c8\ub294\uc9c0":2,"\uc0dd\uc131\ub429\ub2c8\ub2e4":6,"\uc0dd\uc131\ud558\uace0":[6,9],"\uc0dd\uc131\ud558\uae30":8,"\uc0dd\uc131\ud558\ub294":2,"\uc0dd\uc131\ud560":3,"\uc0dd\uc131\ud569\ub2c8\ub2e4":3,"\uc0dd\uc131\ud574\ubd05\ub2c8\ub2e4":[2,3],"\uc0dd\ud65c\ube44":4,"\uc11c\ubc84":8,"\uc11c\ubc84\uac00":6,"\uc11c\ubc84\ub294":6,"\uc11c\ubc84\ub97c":[1,6],"\uc11c\ubc84\uc5d0":2,"\uc11c\ubc84\uc5d0\uc11c":[1,7],"\uc11c\ubc84\uc640":[6,9],"\uc11c\ube44\uc2a4\uc5d0":0,"\uc11c\uc2dd":8,"\uc120\ud0dd":4,"\uc120\ud0dd\ub418\uc5c8\uc744":4,"\uc120\ud0dd\ud558\ub824\uace0":4,"\uc120\ud0dd\ud558\ub824\ub294":4,"\uc120\ud0dd\ud560":4,"\uc124\uc815":[2,4],"\uc124\uc815\ub41c":[4,5,6,7],"\uc124\uc815\uc744":[5,6],"\uc124\uc815\ud558\uc5ec":[4,7],"\uc124\uc815\ud55c":[5,6,7],"\uc124\uc815\ud560":6,"\uc124\uc815\ud569\ub2c8\ub2e4":[4,5,6,7],"\uc124\uc815\ud574":1,"\uc124\uc815\ud574\uc57c":4,"\uc124\uce58":8,"\uc124\uce58\ud569\ub2c8\ub2e4":1,"\uc138":7,"\uc140":4,"\uc140\uc774":7,"\uc18d\uc131\uc5d0":4,"\uc18d\uc131\uc744":[4,5],"\uc18d\uc131\uc774":4,"\uc218":[0,4,5,6,7],"\uc218\ub3c4":6,"\uc218\uc815":7,"\uc218\uc815\ub418\uc5c8\uc744":7,"\uc218\uc815\ub41c":7,"\uc218\uc815\ud558\ub294":7,"\uc218\uc815\ud558\uba74":2,"\uc218\uc815\ud55c":7,"\uc218\uc815\ud560":4,"\uc21c\uc11c\ub300\ub85c":4,"\uc2a4\ud0c0\uc77c":4,"\uc2a4\ud0c0\uc77c\uc744":4,"\uc2dc":7,"\uc2dc\uac04":8,"\uc2dc\uac04\ud45c":9,"\uc2dd\ube44":[3,4],"\uc2e4\uc2b5\ud558\ub294":1,"\uc2e4\uc81c":6,"\uc2e4\ud589\ub418\uace0":6,"\uc2e4\ud589\ud558\uace0":1,"\uc2e4\ud589\ud558\uae30":8,"\uc2e4\ud589\ud569\ub2c8\ub2e4":6,"\uc2e4\ud589\ud574\ubd05\ub2c8\ub2e4":6,"\uc2e4\ud589\ud588\ub358":6,"\uc2ec\ud654":8,"\uc2f6\ub2e4\uba74":[4,5],"\uc368\uba38\ub9ac":5,"\uc544\ub798":4,"\uc544\ub798\uc5d0":[2,5],"\uc544\ub798\uc640":[1,3,6],"\uc544\uc8fc":6,"\uc548\ud568":4,"\uc54a\uc2b5\ub2c8\ub2e4":5,"\uc54a\uc740":5,"\uc54c\uace0":5,"\uc55e\uc11c":7,"\uc55e\uc5d0\uc11c":3,"\uc55e\uc73c\ub85c":[1,3],"\uc561\uc140\uacfc":0,"\uc5b4\ub5a4":7,"\uc5c5\ub370\uc774\ud2b8\ud569\ub2c8\ub2e4":7,"\uc5d0":[1,4,7],"\uc5d0\ub514\ud130\ub97c":4,"\uc5d8\ub9ac\uba3c\ud2b8":2,"\uc5ec\uae30\uc11c":4,"\uc5ec\ub7ec":4,"\uc5f0\ub3d9":6,"\uc5f0\ub3d9\uc744":6,"\uc5f0\ub3d9\ud558\uae30":8,"\uc5f0\ub3d9\ud558\uc5ec":6,"\uc5f0\uc0b0":5,"\uc5f4\uace0":[2,6],"\uc5f4\uc5b4":[1,2],"\uc601\uc5ed\uc740":5,"\uc601\uc5ed\uc758":5,"\uc608\ub97c":4,"\uc608\uc81c\uc5d0\uc11c\ub294":7,"\uc624\ud508\uc18c\uc2a4":0,"\uc628":7,"\uc635\uc158":[2,6],"\uc635\uc158\ub4e4\uc744":6,"\uc635\uc158\uc5d0":[5,6,7],"\uc635\uc158\uc73c\ub85c":6,"\uc635\uc158\uc744":[2,4,5],"\uc635\uc158\uc758":3,"\uc635\uc158\uc785\ub2c8\ub2e4":5,"\uc640":5,"\uc644\uc131\ud574\ubd05\ub2c8\ub2e4":7,"\uc678":4,"\uc678\ubd80":6,"\uc694\uccad\uacfc":6,"\uc694\uccad\uc774":6,"\uc6d0":5,"\uc704\uc5d0\uc11c":7,"\uc704\uce58\ub97c":5,"\uc704\uce58\uc5d0\uc11c":6,"\uc704\uce58\ud569\ub2c8\ub2e4":5,"\uc704\ud574":[4,6,7],"\uc704\ud574\uc11c\ub294":4,"\uc720\ud29c\ube0c":9,"\uc73c\ub85c":[1,5,6],"\uc744":[1,4,5,6,7],"\uc751\ub2f5\uc774":6,"\uc758":4,"\uc774":[1,4,5,6,7],"\uc774\ub3d9\ud55c":1,"\uc774\ub54c":[2,4],"\uc774\ub984":5,"\uc774\ubc88":[0,7],"\uc774\ubca4\ud2b8":7,"\uc774\ubca4\ud2b8\ub97c":7,"\uc774\uc6a9\ud574":[3,9],"\uc774\uc804\uc5d0":3,"\uc774\uc81c":6,"\uc774\ud574\ud588\uc2b5\ub2c8\ub2e4":9,"\uc774\ud6c4\uc5d0":7,"\uc775\uc219\ud55c":0,"\uc775\uc2a4\ud150\uc158":9,"\uc778\uc2a4\ud134\uc2a4":2,"\uc778\uc2a4\ud134\uc2a4\ub97c":[2,3],"\uc778\ud48b\uacfc\ub294":4,"\uc778\ud48b\uc744":4,"\uc778\ud48b\uc774":4,"\uc77c\ubc18\uc801\uc73c\ub85c":4,"\uc77c\uc5b4\ub09c":6,"\uc77c\uce58\ud574\uc57c":4,"\uc77d\uae30":7,"\uc77d\uc5b4\uc624\ub294":6,"\uc77d\uc5b4\uc62c":7,"\uc785\ub2c8\ub2e4":4,"\uc788\ub294":[4,5,7],"\uc788\ub3c4\ub85d":[4,5,6,7],"\uc788\uc2b5\ub2c8\ub2e4":[0,4,5,6,7],"\uc788\uc5b4\uc57c":4,"\uc788\uc9c0\ub9cc":6,"\uc790\ub3d9\uc73c\ub85c":2,"\uc790\ubc14\uc2a4\ud06c\ub9bd\ud2b8":0,"\uc790\uc138\ud788":5,"\uc791\uc131\ud55c":[3,7],"\uc791\uc131\ud569\ub2c8\ub2e4":3,"\uc791\uc131\ud574":2,"\uc791\uc5c5\uc744":6,"\uc798":6,"\uc7a5\uc5d0\uc11c\ub294":7,"\uc801\uc6a9":4,"\uc801\uc6a9\ud574":0,"\uc801\uc6a9\ud574\ubcf4\uaca0\uc2b5\ub2c8\ub2e4":4,"\uc804\uccb4":5,"\uc810\uc740":4,"\uc810\uc785\ub2c8\ub2e4":4,"\uc811\uc18d\ud55c":2,"\uc811\uc18d\ud569\ub2c8\ub2e4":1,"\uc815\ub9ac":8,"\uc815\ubcf4":[2,6],"\uc815\ubcf4\uac00":5,"\uc815\ubcf4\ub4e4\uc744":5,"\uc815\ubcf4\ub97c":[3,5,7],"\uc815\ubcf4\uc5d0":4,"\uc815\uc0c1\uc801\uc73c\ub85c":6,"\uc81c\uac70":6,"\uc81c\uacf5\ub429\ub2c8\ub2e4":1,"\uc81c\uacf5\ud558\ub294":[4,6],"\uc81c\uacf5\ud569\ub2c8\ub2e4":4,"\uc81c\uc678\ud55c":4,"\uc880":6,"\uc885\ub8cc\ub97c":7,"\uc8fc\uc758\ud560":4,"\uc900\ube44\ub41c":[1,2],"\uc90d\ub2c8\ub2e4":2,"\uc911":4,"\uc911\uc5d0\uc11c":4,"\uc911\uc694\ud55c":4,"\uc911\uc778":7,"\uc9c0\uae08\uae4c\uc9c0":6,"\uc9c0\uae08\uae4c\uc9c0\ub294":4,"\uc9c0\uae08\ubd80\ud130":3,"\uc9c0\uae08\ubd80\ud130\ub294":6,"\uc9c0\uc6b0\uace0":3,"\uc9c0\uc815":2,"\uc9c0\uc815\ud558\uba70":5,"\uc9c0\uc815\ud558\uc9c0":5,"\uc9c0\uc815\ud560":4,"\uc9c0\ucd9c":8,"\uc9c1\uc811":[0,6],"\ucc28\ud2b8":9,"\ucc38\uace0":6,"\ucc38\uace0\ud558\uc5ec":4,"\ucc38\uace0\ud574\uc8fc\uc138\uc694":5,"\ucc98\ub9ac\ub429\ub2c8\ub2e4":6,"\ucc98\ub9ac\ud558\uae30":6,"\ucc98\ub9ac\ud560":[6,7],"\ucc98\ub9ac\ud574\ubcf4\uaca0\uc2b5\ub2c8\ub2e4":6,"\ucc98\ub9ac\ud574\ubd05\ub2c8\ub2e4":7,"\ucc98\ub9ac\ud588\ub358":7,"\ucd08\uae09":8,"\ucd08\uae30\uc5d0":5,"\ucd08\uae30\ud654\ud558\ub358":6,"\ucd08\uae30\ud654\ud569\ub2c8\ub2e4":4,"\ucd1d\ud569":5,"\ucd5c\ub313\uac12":5,"\ucd5c\uc19f\uac12":5,"\ucd94\uac00":[4,5,7],"\ucd94\uac00\ub420":3,"\ucd94\uac00\ud558\uac70\ub098":5,"\ucd94\uac00\ud558\uace0":4,"\ucd94\uac00\ud569\ub2c8\ub2e4":7,"\ucd94\uac00\ud574":3,"\ucd94\uac00\ud574\ubd05\ub2c8\ub2e4":[2,4,5,7],"\ucd94\uac00\ud574\uc57c":4,"\ucd94\uac00\ud574\uc90d\ub2c8\ub2e4":4,"\ucd95\ud558\ud569\ub2c8\ub2e4":9,"\ucd9c\ub825":5,"\ucd9c\ub825\ub418\ub294":7,"\ucd9c\ub825\ub418\uba70":5,"\ucd9c\ub825\ub418\uba74":6,"\ucd9c\ub825\ud558\ub294":4,"\ucd9c\ub825\ud560":[5,7],"\ucd9c\ub825\ud574\uc904":5,"\uce21":6,"\uce74\ub4dc":4,"\uce74\ud14c\uace0\ub9ac":[4,8],"\uce74\ud14c\uace0\ub9ac\ubcc4\ub85c":4,"\uce74\ud14c\uace0\ub9ac\uc5d0\uc11c":4,"\ucee4\uc2a4\ud140":7,"\ucee8\ud14c\uc774\ub108":2,"\uceec\ub7fc":[2,4,5],"\uceec\ub7fc\uc758":[4,5],"\ucef4\ud3ec\ub10c\ud2b8\ub97c":4,"\ucf54\ub4dc":4,"\ucf54\ub4dc\ub294":3,"\ucf54\ub4dc\ub97c":[2,3,6],"\ud06c\ub86c":0,"\ud074\ub860":1,"\ud074\ub9ad":7,"\ud074\ub9ad\ud558\uba74":7,"\ud074\ub9ad\ud574":7,"\ud0a4\ub294":5,"\ud0c0\uc785\uc73c\ub85c":4,"\ud0c0\uc785\uc740":4,"\ud0c0\uc785\uc758":4,"\ud0dc\uadf8":[2,5],"\ud0dc\uadf8\ub97c":[2,7],"\ud0ed\uc5d0\uc11c":6,"\ud130\ubbf8\ub110\uc744":[1,6],"\ud14c\uc774\ube14":5,"\ud14c\uc774\ube14\uc5d0\uc11c":5,"\ud14d\uc2a4\ud2b8\ub85c":4,"\ud1b5\uc2e0\ud558\ub294":9,"\ud1b5\ud574":[5,6],"\ud29c\ud1a0\ub9ac\uc5bc":[4,5,6],"\ud30c\ub77c\ubbf8\ud130\ub85c":2,"\ud30c\uc77c":4,"\ud30c\uc77c\ub85c":7,"\ud30c\uc77c\uc5d0":[3,7],"\ud30c\uc77c\uc744":2,"\ud328\ud0a4\uc9c0\uc640":1,"\ud398\uc774\uc9c0\ub97c":6,"\ud398\uc774\ucf54":[3,4],"\ud3b8\uc758\uc810":[3,4],"\ud3b8\uc9d1":[7,8],"\ud3b8\uc9d1\uae30":0,"\ud3b8\uc9d1\ud560":0,"\ud3b8\ud558\uac8c":6,"\ud3c9\uade0":5,"\ud3ec\ub9e4\ud130":4,"\ud3ec\ub9f7\uc744":4,"\ud3ec\ud568\ud558\ub294":5,"\ud3f4\ub354":6,"\ud3f4\ub354\ub85c":1,"\ud3f4\ub354\uc758":3,"\ud45c\ud604\ud558\uace0":0,"\ud504\ub85c\uc81d\ud2b8":[3,6],"\ud504\ub85c\uc81d\ud2b8\ub97c":1,"\ud53c\ucee4\uc758":4,"\ud544\uc694\ub85c":4,"\ud558\ub098\uc640":4,"\ud558\ub294":4,"\ud558\ub2e8\uc5d0":5,"\ud558\uba74":4,"\ud558\ubbc0\ub85c":4,"\ud55c":4,"\ud560":4,"\ud568\uc218\ub294":5,"\ud568\uc218\ub97c":[5,7],"\ud568\uc218\ud615":5,"\ud569\uacc4":5,"\ud569\ub2c8\ub2e4":[2,4],"\ud574\ub2f9":[5,6],"\ud574\ub2f9\ud558\ub294":4,"\ud578\ub4e4\ub7ec":7,"\ud578\uc988\uc628":0,"\ud589":7,"\ud589\uc5d0":5,"\ud589\uc758":[5,6],"\ud5e4\ub354":5,"\ud5e4\ub354\ub97c":6,"\ud604\uae08":4,"\ud615\uc2dd\uc744":[4,5],"\ud615\ud0dc\ub85c":[0,4],"\ud638\ucd9c\ub418\ub294":7,"\ud638\ucd9c\ub429\ub2c8\ub2e4":6,"\ud638\ucd9c\ud558\uac8c":7,"\ud638\ucd9c\ud558\ub294":[2,7],"\ud638\ucd9c\ud558\uba74":7,"\ud638\ucd9c\ud558\uc5ec":6,"\ud638\ucd9c\ud560":[6,7],"\ud638\ucd9c\ud569\ub2c8\ub2e4":[6,7],"\ud638\ucd9c\ud574":6,"\ud654\uba74\uc5d0":5,"\ud655\uc778\ud560":[6,7],"\ud655\uc778\ud569\ub2c8\ub2e4":[1,2],"\ud65c\uc131\ud654\ud558\uace0":6,"\ud65c\uc131\ud654\ud558\uae30":8,"\ud65c\uc131\ud654\ud558\ub294":6,"\ud65c\uc131\ud654\ud558\uba70":6,"\ud65c\uc131\ud654\ud574\ubd05\ub2c8\ub2e4":4,"\ud68c\uc0ac":[3,4],"\ud6c4":[1,7],"api\ub85c":7,"api\ub97c":[2,6,7],"api\uc758":6,"calendar\ub85c":9,"chart\ub97c":9,"const":[2,3,4,5,6,7],"datasource\ub85c":6,"datasource\ub97c":[6,7,9],"datasource\uc758":7,"fe\uac1c\ubc1c\ub7a9\uc5d0\uc11c":0,"function":7,"grid\ub294":[0,1],"grid\ub97c":[0,1,9],"import":[2,3,4],"method\ub97c":6,"new":[2,3,5,6],"return":5,"url\uacfc":6,"url\uc740":6,"url\uc744":7,Lies:2,account:1,addeventlisten:7,amount:[3,4,5],api:2,appendrow:2,applic:[6,7],artist:2,beauti:2,birdi:2,bodi:2,book:1,bottom:5,button:7,category1:[3,4],category2:[3,4],checkbox:4,checkedonli:7,click:7,clone:1,coldplai:2,column:[2,3],columncont:5,columndata:[3,4,5],columnnam:7,com:1,consol:7,content:6,contenttyp:[6,7],creat:7,crud:6,css:[2,3,4],data:[2,3,5,6,7],datasourc:7,date:[3,4],datepick:4,delet:7,dev:1,dist:[2,3,4],div:2,document:[2,3,7],dream:2,editor:[4,5,9],express:6,fals:7,finishedit:7,foreach:2,format:4,formatt:4,from:[2,3],full:2,genr:2,get:[6,7],getelementbyid:[2,3,7],getfocusedcel:7,git:1,github:[0,1],grid:[2,3,5,6,7,8],hand:1,head:2,header:[2,3,4,5],height:5,html:[5,7],http:[1,6,7],index:[2,3,7],instal:1,javascript:8,json:[6,7],lab:1,listitem:4,listitemtext:4,localhost:[1,6,7],log:7,method:[6,7],name:[2,3,4,5],nhn:1,node:0,npm:[1,6],option:[2,4],pars:7,payment:[3,4],picker:4,pop:2,posit:5,price:2,put:7,read:6,readdata:[6,7],request:7,respons:7,responseobj:7,result:7,rock:2,row:2,rowdata:[2,3,4,5,6],rowkei:7,run:[1,6],select:4,serv:1,server:1,sheeran:2,src:[2,3,7],sum:5,sync:7,syncserv:7,templat:5,text:[4,5],toast:[0,4,9],toastui:1,top:5,tui:[1,2,3,4],type:[4,6],updat:7,updatedata:7,url:[6,7],valu:[4,5],valuemap:5,webpack:1,xhr:7,yyyi:4},titles:["1. \uac1c\uc694","2. TOAST UI Grid \uc124\uce58 \ubc0f \uc11c\ubc84 \uc2e4\ud589\ud558\uae30","3. \uadf8\ub9ac\ub4dc \uc0dd\uc131\ud558\uae30","4. \uac00\uacc4\ubd80 \ub808\uc774\uc544\uc6c3 \ub9cc\ub4e4\uae30","5. \ub2e4\uc591\ud55c \ud3b8\uc9d1 \ubaa8\ub4dc \ud65c\uc131\ud654\ud558\uae30","6. \uc9c0\ucd9c \ube44\uc6a9 \uc11c\uc2dd \ubcc0\uacbd\ud558\uae30","7. \uc11c\ubc84 \uc5f0\ub3d9\ud558\uae30 (\uae30\ubcf8)","8. \uc11c\ubc84 \uc5f0\ub3d9\ud558\uae30 (\uc2ec\ud654)","TOAST UI Grid\ub85c \uac00\uacc4\ubd80 \ub9cc\ub4e4\uae30","9. \uc815\ub9ac"],titleterms:{"\uac00\uacc4\ubd80":[3,8],"\uac1c\ubc1c":1,"\uac1c\uc694":0,"\uacb0\uacfc":[2,3,4,5,6,7],"\uadf8\ub9ac\ub4dc":2,"\uae30\ubcf8":[3,6],"\ub0b4\uc6a9":[0,9],"\ub2e4\uc591\ud55c":4,"\ub2e4\uc74c":9,"\ub2e8\uacc4":9,"\ub370\uc774\ud130":3,"\ub370\uc774\ud2b8":4,"\ub808\uc774\uc544\uc6c3":3,"\ub9cc\ub4e4\uae30":[3,8],"\ubaa8\ub4dc":4,"\ubc0f":1,"\ubc15\uc2a4":4,"\ubc84\ud2bc":7,"\ubcc0\uacbd\ud558\uae30":5,"\ube44\uc6a9":5,"\uc0ac\uc6a9\ud558\uae30":[4,6],"\uc0dd\uc131\ud558\uae30":2,"\uc11c\ubc84":[1,6,7],"\uc11c\uc2dd":5,"\uc124\uc815\ud558\uae30":[3,5,6],"\uc124\uce58":1,"\uc140\ub809\ud2b8":4,"\uc18c\uc2a4":0,"\uc2e4\ud589":1,"\uc2e4\ud589\ud558\uae30":1,"\uc2ec\ud654":7,"\uc5d0\ub514\ud130":4,"\uc5f0\ub3d9\ud558\uae30":[6,7],"\uc635\uc158":[4,5],"\uc694\uccad":6,"\uc694\uccad\ud558\uae30":7,"\uc751\ub2f5":[6,7],"\uc778\ud48b":4,"\uc790\ubc14\uc2a4\ud06c\ub9bd\ud2b8":2,"\uc791\uc131":2,"\uc815\ub9ac":9,"\uc900\ube44\ubb3c":0,"\uc9c0\ucd9c":5,"\ucc98\ub9ac\ud558\uae30":7,"\uccb4\ud06c":4,"\ucd08\uae30":2,"\ucd94\uac00\ud558\uae30":7,"\uceec\ub7fc":3,"\ucf54\ub4dc":[0,2],"\ud14c\uc2a4\ud2b8\uc6a9":6,"\ud14d\uc2a4\ud2b8":4,"\ud3b8\uc9d1":4,"\ud504\ub85c\uc81d\ud2b8":1,"\ud53c\ucee4":4,"\ud559\uc2b5\ud55c":9,"\ud559\uc2b5\ud560":0,"\ud654\uba74":[2,3,4,5,6,7],"\ud655\uc778\ud558\uae30":6,"\ud65c\uc131\ud654\ud558\uae30":4,"grid\ub85c":8,api:[6,7],datasourc:6,formatt:5,grid:1,html:2,summari:5,toast:[1,8],udat:7}})

diff --git a/05.html b/05.html
@@ -86,7 +86,7 @@
 <li class="toctree-l1"><a class="reference internal" href="04.html">4. 가계부 레이아웃 만들기</a></li>
 <li class="toctree-l1 current"><a class="current reference internal" href="#">5. 다양한 편집 모드 활성화하기</a><ul>
 <li class="toctree-l2"><a class="reference internal" href="#id2">5.1. 텍스트 인풋 옵션 사용하기</a></li>
-<li class="toctree-l2"><a class="reference internal" href="#id3">5.2. 셀렉트 박스, 체크박스 인풋 옵션 사용하기</a></li>
+<li class="toctree-l2"><a class="reference internal" href="#id3">5.2. 셀렉트 박스, 체크 박스 인풋 옵션 사용하기</a></li>
 <li class="toctree-l2"><a class="reference internal" href="#id4">5.3. 데이트 피커 에디터 사용하기</a></li>
 <li class="toctree-l2"><a class="reference internal" href="#id5">5.4. 결과 화면</a></li>
 </ul>
@@ -166,7 +166,7 @@
 <li>날짜 : 데이트 피커</li>
 <li>내역 : 셀렉트 박스</li>
 <li>비고 : 텍스트 인풋</li>
-<li>결제 방식 : 체크박스</li>
+<li>결제 방식 : 체크 박스</li>
 <li>금액 : 텍스트 인풋</li>
 </ul>
 <p>카테고리별로 편집 모드를 적용해보겠습니다.
@@ -197,17 +197,17 @@
 </div>
 </div>
 <div class="section" id="id3">
-<h2>5.2. 셀렉트 박스, 체크박스 인풋 옵션 사용하기<a class="headerlink" href="#id3" title="제목 주소">¶</a></h2>
+<h2>5.2. 셀렉트 박스, 체크 박스 인풋 옵션 사용하기<a class="headerlink" href="#id3" title="제목 주소">¶</a></h2>
 <ul class="simple">
 <li>적용 컬럼 : 〈내역〉, 〈결제 방식〉</li>
 </ul>
 <p>데이터가 될 값을 여러 개의 값 중에서 선택하려고 할 때 사용합니다.
 텍스트 인풋과는 다르게 <code class="docutils literal notranslate"><span class="pre">type</span></code> 과 <code class="docutils literal notranslate"><span class="pre">options</span></code> 라는 속성을 가진 객체 형태로 <code class="docutils literal notranslate"><span class="pre">editor</span></code> 의 값을 설정합니다.
-셀렉트 박스의 타입은 <code class="docutils literal notranslate"><span class="pre">'select'</span></code> , 체크박스의 타입은 <code class="docutils literal notranslate"><span class="pre">'checkbox'</span></code> 입니다.
+셀렉트 박스의 타입은 <code class="docutils literal notranslate"><span class="pre">'select'</span></code> , 체크 박스의 타입은 <code class="docutils literal notranslate"><span class="pre">'checkbox'</span></code> 입니다.
 그리고 <code class="docutils literal notranslate"><span class="pre">options</span></code> 속성에 <code class="docutils literal notranslate"><span class="pre">listItems</span></code> 을 설정하여 선택하려는 값 목록을 배열에 담아 초기화합니다.</p>
 <p>여기서 한 가지 중요한 사항이 있습니다.
-일반적으로 셀렉트 박스, 체크박스 같은 경우, <code class="docutils literal notranslate"><span class="pre">text</span></code> 속성을 레이블로 사용하고 <code class="docutils literal notranslate"><span class="pre">value</span></code> 속성을 내부 값으로 사용합니다.
-그리드의 셀 내에서 <code class="docutils literal notranslate"><span class="pre">text</span></code>, <code class="docutils literal notranslate"><span class="pre">value</span></code> 값의 매핑을 위해 반드시 <code class="docutils literal notranslate"><span class="pre">formatter</span></code> 옵션을 <code class="docutils literal notranslate"><span class="pre">'listItemText'</span></code> (내장 포매터)로 설정해야합니다.</p>
+일반적으로 셀렉트 박스, 체크 박스 같은 경우, <code class="docutils literal notranslate"><span class="pre">text</span></code> 속성을 레이블로 사용하고 <code class="docutils literal notranslate"><span class="pre">value</span></code> 속성을 내부 값으로 사용합니다.
+그리드의 셀 내에서 <code class="docutils literal notranslate"><span class="pre">text</span></code>, <code class="docutils literal notranslate"><span class="pre">value</span></code> 값의 매핑을 위해 반드시 <code class="docutils literal notranslate"><span class="pre">formatter</span></code> 옵션을 <code class="docutils literal notranslate"><span class="pre">'listItemText'</span></code> (내장 포매터)로 설정해야 합니다.</p>
 <div class="highlight-javascript notranslate"><div class="highlight"><pre><span></span><span class="p">...</span>
 
 <span class="kr">const</span> <span class="nx">columnData</span> <span class="o">=</span> <span class="p">[</span>
@@ -275,7 +275,7 @@
 </div>
 <p>이때 주의할 사항이 있습니다.
 텍스트 인풋을 제외한 다른 편집 타입의 경우 데이터 형식을 변경해야 합니다.</p>
-<p>예를 들어 체크박스를 사용하는 컬럼의 데이터는 <code class="docutils literal notranslate"><span class="pre">editor.options.listItems</span></code> 에 설정된 각 리스트의 값(<code class="docutils literal notranslate"><span class="pre">value</span></code>) 중 하나와 일치해야 합니다.
+<p>예를 들어 체크 박스를 사용하는 컬럼의 데이터는 <code class="docutils literal notranslate"><span class="pre">editor.options.listItems</span></code> 에 설정된 각 리스트의 값(<code class="docutils literal notranslate"><span class="pre">value</span></code>) 중 하나와 일치해야 합니다.
 다음과 같이 데이터를 변경해봅니다.</p>
 <div class="highlight-javascript notranslate"><div class="highlight"><pre><span></span><span class="p">...</span>
 
@@ -298,7 +298,7 @@
 </ul>
 <p>텍스트 인풋을 사용하면서 텍스트 인풋이 선택되었을 때 레이어를 띄워 날짜를 선택할 수 있도록 변경해보겠습니다.</p>
 <p>그리드에서는 <a href="https://github.com/nhn/tui.date-picker" target="_blank">TOAST UI DatePicker</a> 컴포넌트를 사용하여 날짜를 선택할 수 있는 기능을 제공합니다.
-셀렉트 박스, 체크박스처럼 <code class="docutils literal notranslate"><span class="pre">editor</span></code> 옵션을 객체 형태로 설정합니다. 한 가지 다른 점은 <code class="docutils literal notranslate"><span class="pre">options</span></code> 에 날짜의 포맷을 지정할 수 있는 <code class="docutils literal notranslate"><span class="pre">format</span></code> 속성이 들어가는 점입니다.</p>
+셀렉트 박스, 체크 박스처럼 <code class="docutils literal notranslate"><span class="pre">editor</span></code> 옵션을 객체 형태로 설정합니다. 한 가지 다른 점은 <code class="docutils literal notranslate"><span class="pre">options</span></code> 에 날짜의 포맷을 지정할 수 있는 <code class="docutils literal notranslate"><span class="pre">format</span></code> 속성이 들어가는 점입니다.</p>
 <div class="highlight-javascript notranslate"><div class="highlight"><pre><span></span><span class="p">...</span>
 
 <span class="kr">const</span> <span class="nx">columnData</span> <span class="o">=</span> <span class="p">[</span>

diff --git a/03.html b/03.html
@@ -206,8 +206,8 @@
       <span class="nx">name</span><span class="o">:</span> <span class="s1">&#39;artist&#39;</span>
     <span class="p">},</span>
     <span class="p">{</span>
-      <span class="nx">header</span><span class="o">:</span> <span class="s1">&#39;Release&#39;</span><span class="p">,</span>
-      <span class="nx">name</span><span class="o">:</span> <span class="s1">&#39;release&#39;</span>
+      <span class="nx">header</span><span class="o">:</span> <span class="s1">&#39;Price&#39;</span><span class="p">,</span>
+      <span class="nx">name</span><span class="o">:</span> <span class="s1">&#39;price&#39;</span>
     <span class="p">},</span>
     <span class="p">{</span>
       <span class="nx">header</span><span class="o">:</span> <span class="s1">&#39;Genre&#39;</span><span class="p">,</span>
@@ -218,7 +218,7 @@
     <span class="p">{</span>
       <span class="nx">name</span><span class="o">:</span> <span class="s1">&#39;Beautiful Lies&#39;</span><span class="p">,</span>
       <span class="nx">artist</span><span class="o">:</span> <span class="s1">&#39;Birdy&#39;</span><span class="p">,</span>
-      <span class="nx">release</span><span class="o">:</span> <span class="s1">&#39;2016.03.26&#39;</span><span class="p">,</span>
+      <span class="nx">price</span><span class="o">:</span> <span class="mi">10000</span><span class="p">,</span>
       <span class="nx">genre</span><span class="o">:</span> <span class="s1">&#39;Pop&#39;</span>
     <span class="p">}</span>
   <span class="p">]</span>
@@ -236,15 +236,15 @@
 
 <span class="kr">const</span> <span class="nx">rowData</span> <span class="o">=</span> <span class="p">[</span>
   <span class="p">{</span>
-    <span class="nx">name</span><span class="o">:</span> <span class="s1">&#39;+&#39;</span><span class="p">,</span>
-    <span class="nx">artist</span><span class="o">:</span> <span class="s1">&#39;Ad Sheeran&#39;</span><span class="p">,</span>
-    <span class="nx">release</span><span class="o">:</span> <span class="s1">&#39;2014.06.24&#39;</span><span class="p">,</span>
+    <span class="nx">name</span><span class="o">:</span> <span class="s1">&#39;X&#39;</span><span class="p">,</span>
+    <span class="nx">artist</span><span class="o">:</span> <span class="s1">&#39;Ed Sheeran&#39;</span><span class="p">,</span>
+    <span class="nx">price</span><span class="o">:</span> <span class="mi">20000</span><span class="p">,</span>
     <span class="nx">genre</span><span class="o">:</span> <span class="s1">&#39;Pop&#39;</span>
   <span class="p">},</span>
   <span class="p">{</span>
     <span class="nx">name</span><span class="o">:</span> <span class="s1">&#39;A Head Full Of Dreams&#39;</span><span class="p">,</span>
     <span class="nx">artist</span><span class="o">:</span> <span class="s1">&#39;Coldplay&#39;</span><span class="p">,</span>
-    <span class="nx">release</span><span class="o">:</span> <span class="s1">&#39;2015.12.04&#39;</span><span class="p">,</span>
+    <span class="nx">price</span><span class="o">:</span> <span class="mi">25000</span><span class="p">,</span>
     <span class="nx">genre</span><span class="o">:</span> <span class="s1">&#39;Rock&#39;</span>
   <span class="p">}</span>
 <span class="p">];</span>

diff --git a/02.html b/02.html
@@ -177,7 +177,7 @@ npm install tui-grid
 </div>
 <div class="section" id="id3">
 <h2>2.3. 개발 서버 실행<a class="headerlink" href="#id3" title="제목 주소">¶</a></h2>
-<p>번들러는 <a href="https://webpack.js.org" target="_blank">Webpack</a> 을 사용하고 <a href="https://github.com/webpack/webpack-dev-server" target="_blank">webpack-dev-server</a> 를 사용하여 개발 서버를 설정해 두었습니다.
+<p>번들러는 <a href="https://webpack.js.org" target="_blank">webpack</a> 을 사용하고 <a href="https://github.com/webpack/webpack-dev-server" target="_blank">webpack-dev-server</a> 를 사용하여 개발 서버를 설정해 두었습니다.
 아래와 같이 간단히 개발 서버를 실행하고 브라우저로 <a href="http://localhost:8080" target="_blank">http://localhost:8080</a> 에 접속합니다.
 앞으로 실습하는 모든 결과는 이 개발 서버에서 확인합니다.</p>
 <div class="highlight-shell notranslate"><div class="highlight"><pre><span></span>npm run serve

diff --git a/01.html b/01.html
@@ -171,14 +171,14 @@ TOAST UI Grid를 사용하면 액셀과 같이 다양한 형태로 데이터를 
 <h2>1.2. 준비물<a class="headerlink" href="#id3" title="제목 주소">¶</a></h2>
 <ul class="simple">
 <li>익숙한 편집기</li>
-<li>node.js</li>
+<li>Node.js</li>
 <li>크롬 브라우저</li>
 </ul>
 </div>
 <div class="section" id="id4">
 <h2>1.3. 소스 코드<a class="headerlink" href="#id4" title="제목 주소">¶</a></h2>
 <ul class="simple">
-<li><a href="https://github.com/nhn/hands-on-labs.toastui.grid-account-book" target="_blank">Github</a></li>
+<li><a href="https://github.com/nhn/hands-on-labs.toastui.grid-account-book" target="_blank">GitHub</a></li>
 </ul>
 </div>
 </div>
